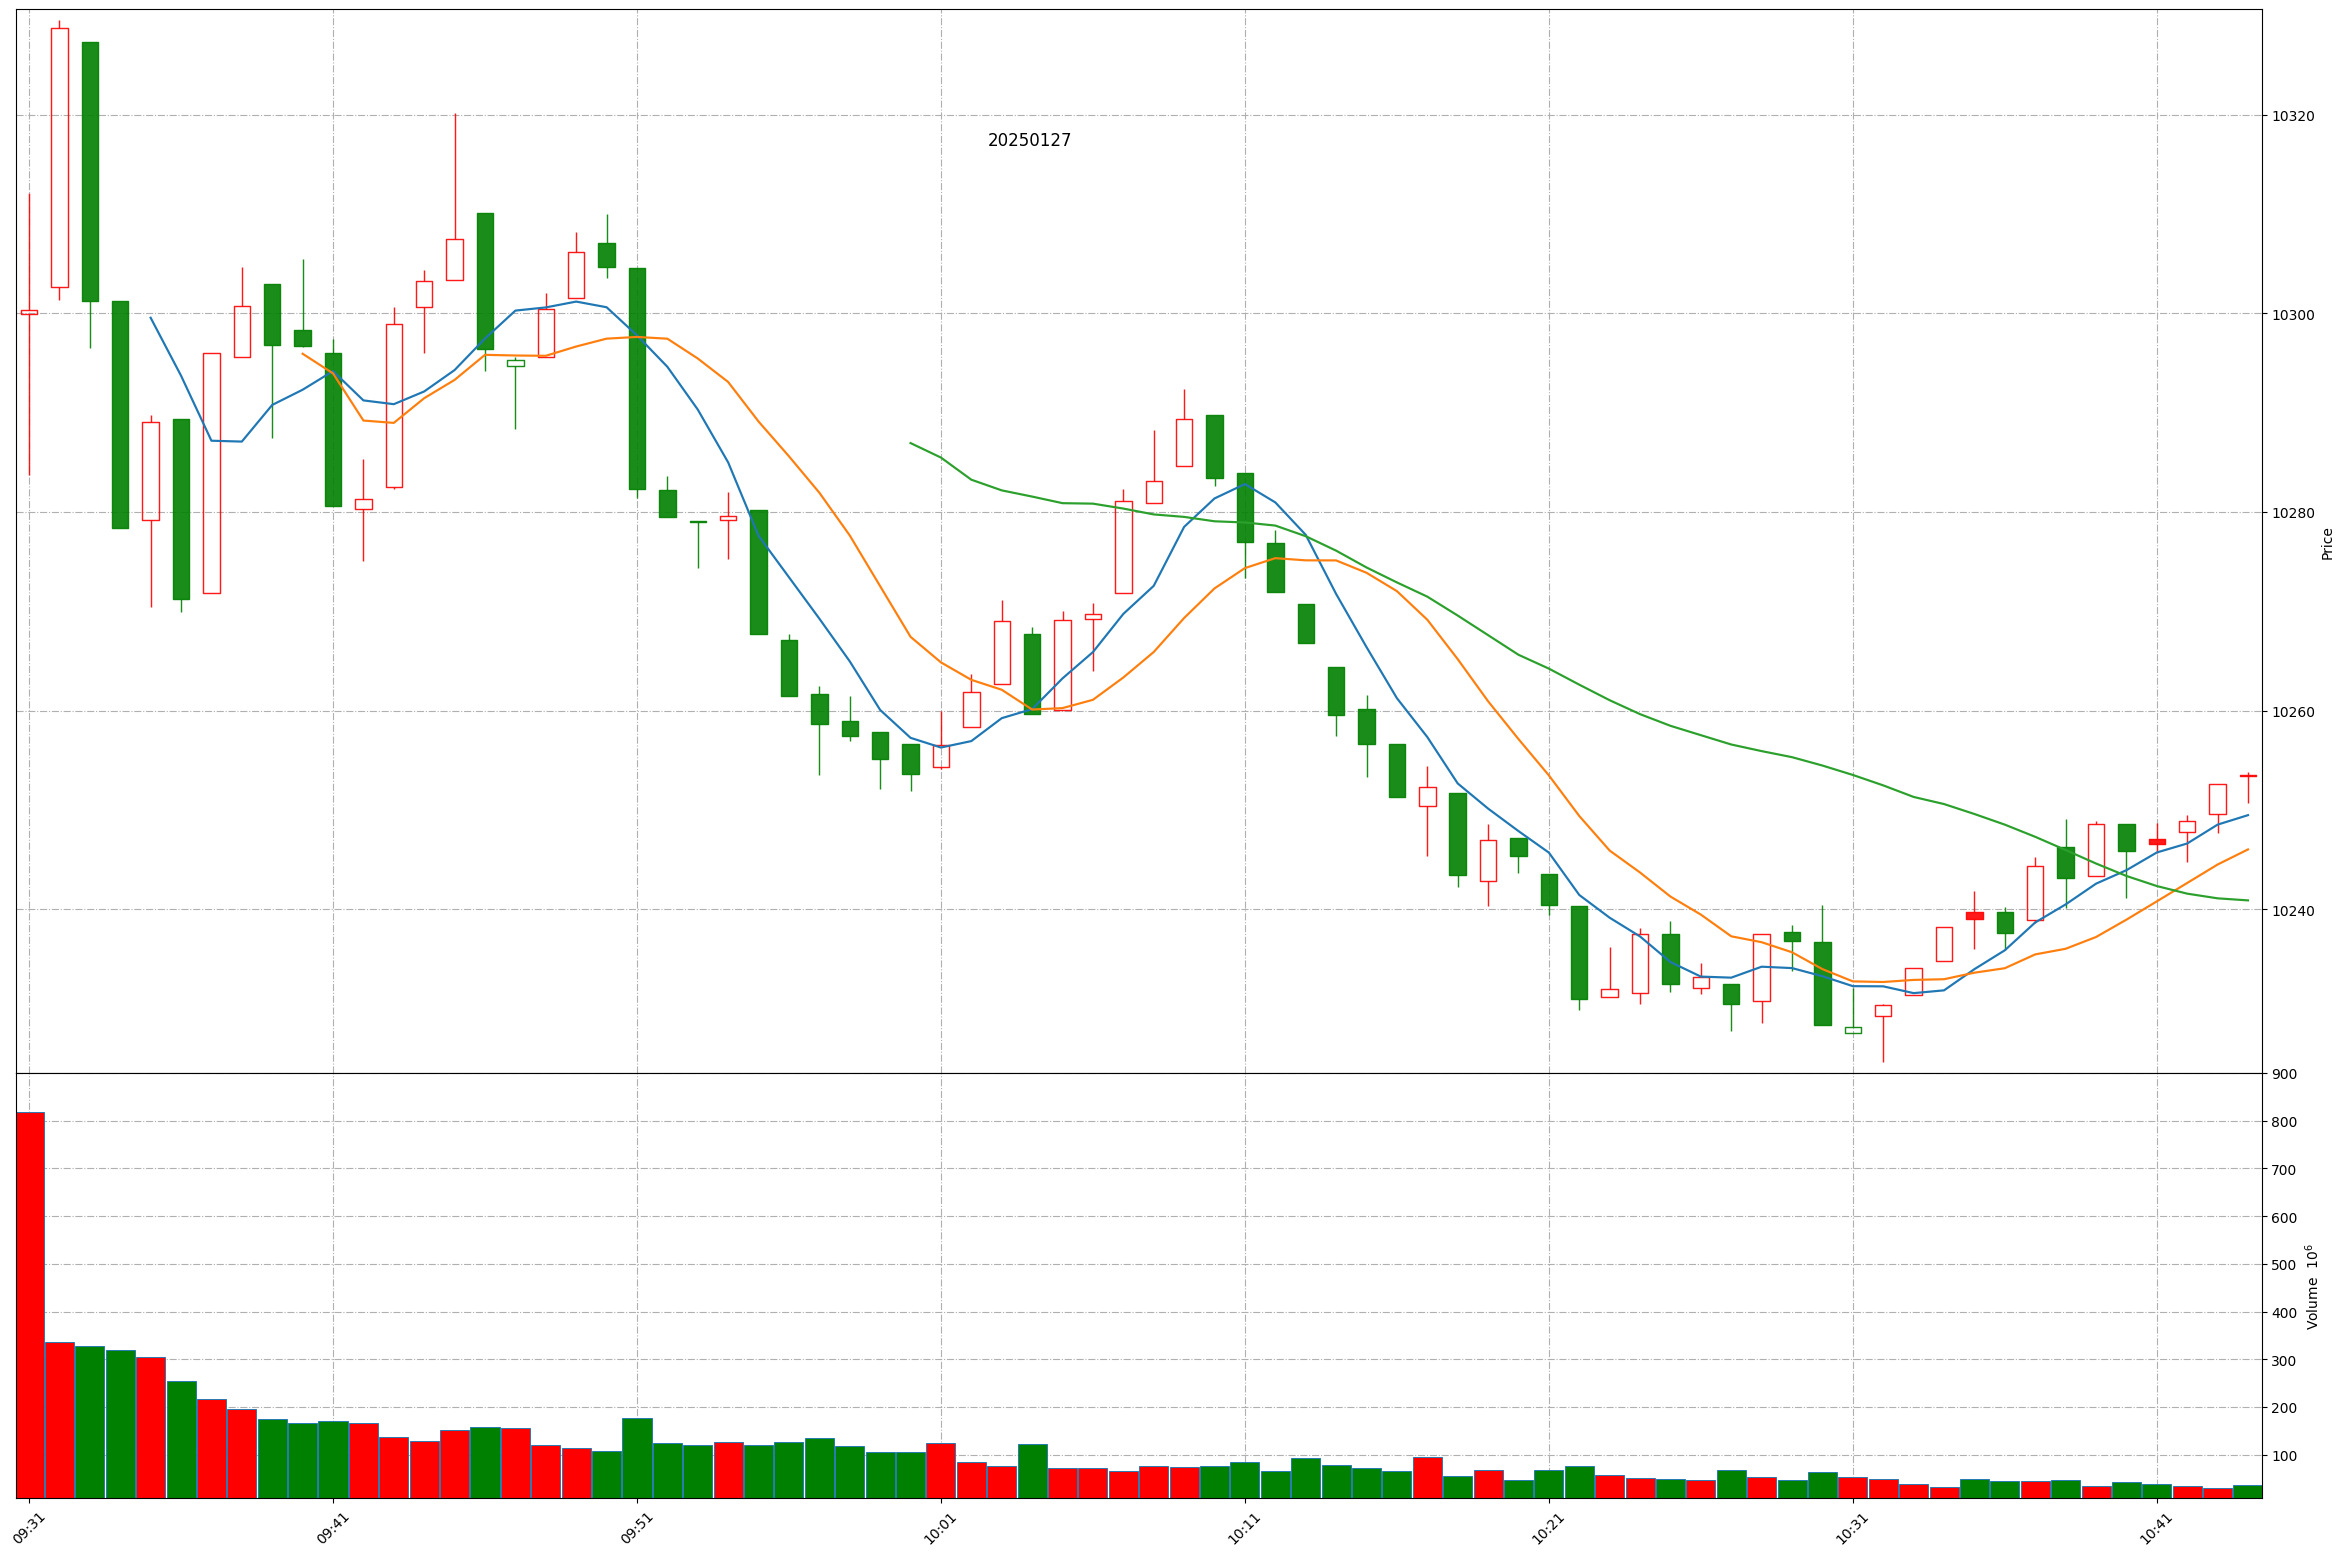
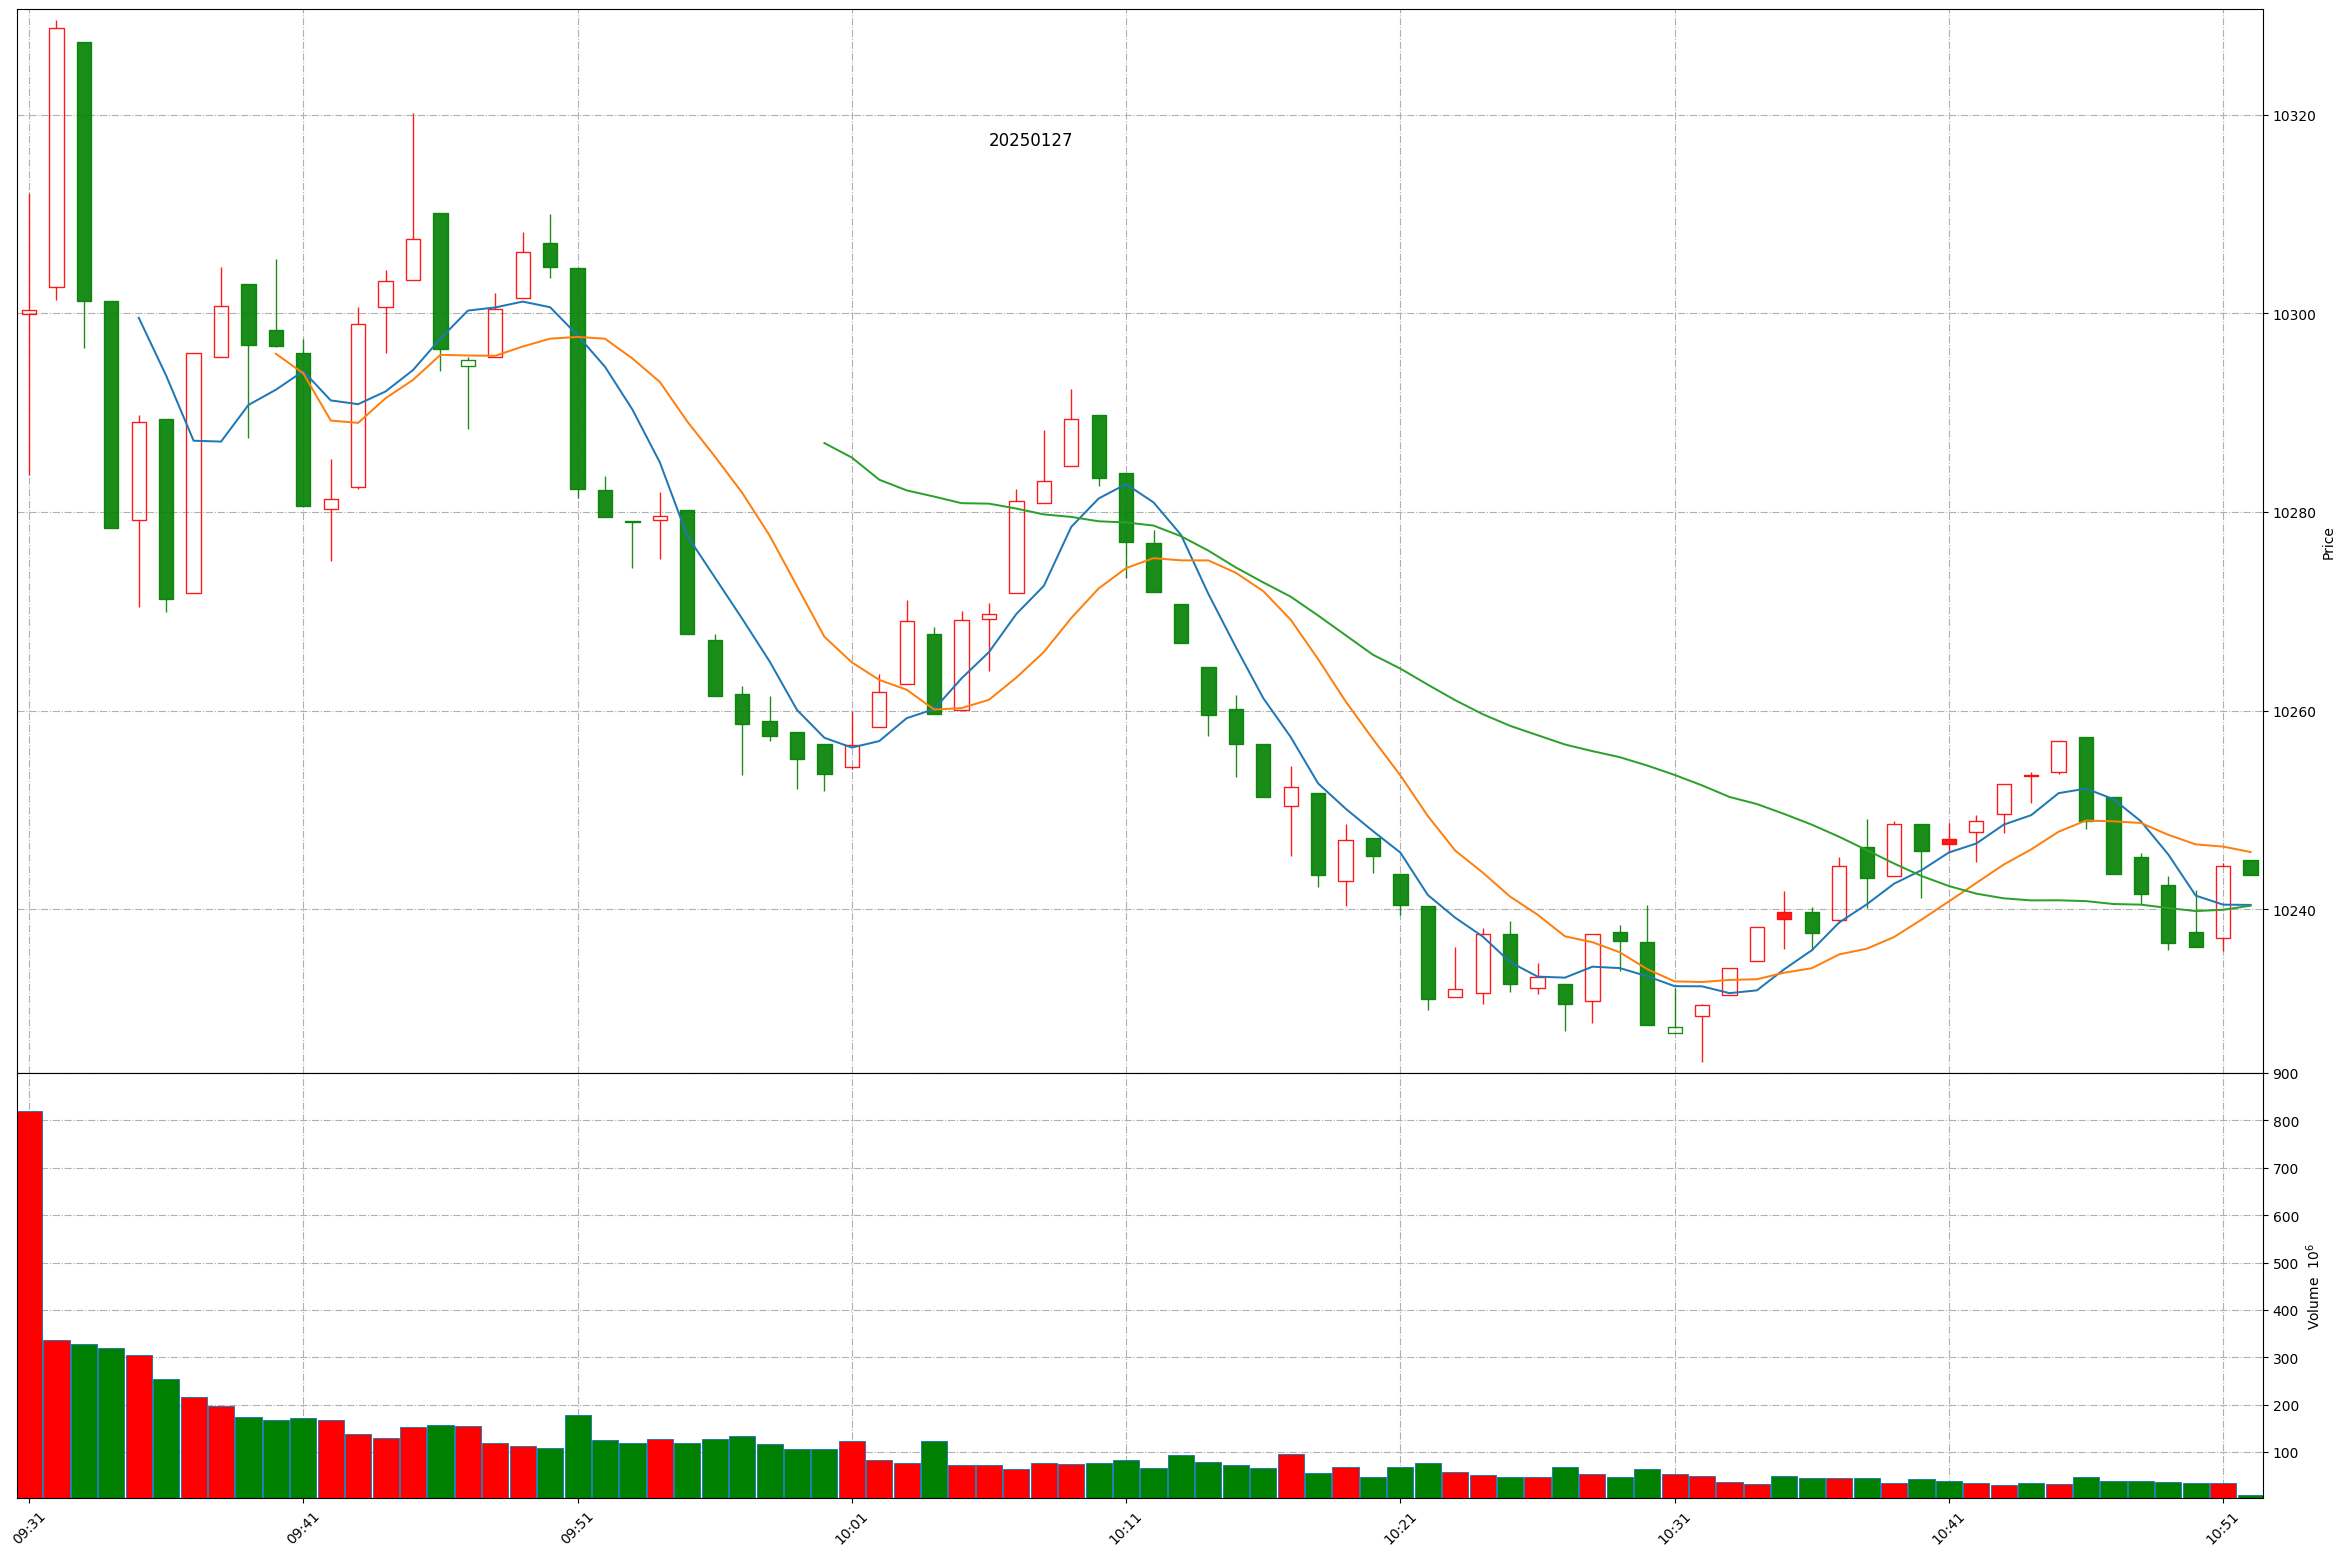
Github action update at 2025-01-27 10:51:27.

Changed region(s): [[0.0, 0.0308, 0.9654, 0.6787], [0.0, 0.8329, 0.9654, 0.9871], [0.5917, 0.3702, 0.6229, 0.401]]

diff --git a/README.md b/README.md
@@ -1,11 +1,11 @@
 
 # Daily-A-share-market-quotes 每日 A 股指数（5min 更新）- 20250127
 
-### 上证指数 20250127 10:44
+### 上证指数 20250127 10:51
 ![](./fig/2025/1/20250127-sh000001.png)
 
-### 深证成指 20250127 10:44
+### 深证成指 20250127 10:51
 ![](./fig/2025/1/20250127-sz399001.png)
 
-### 北证50 20250127 10:44
+### 北证50 20250127 10:51
 ![](./fig/2025/1/20250127-bj899050.png)
